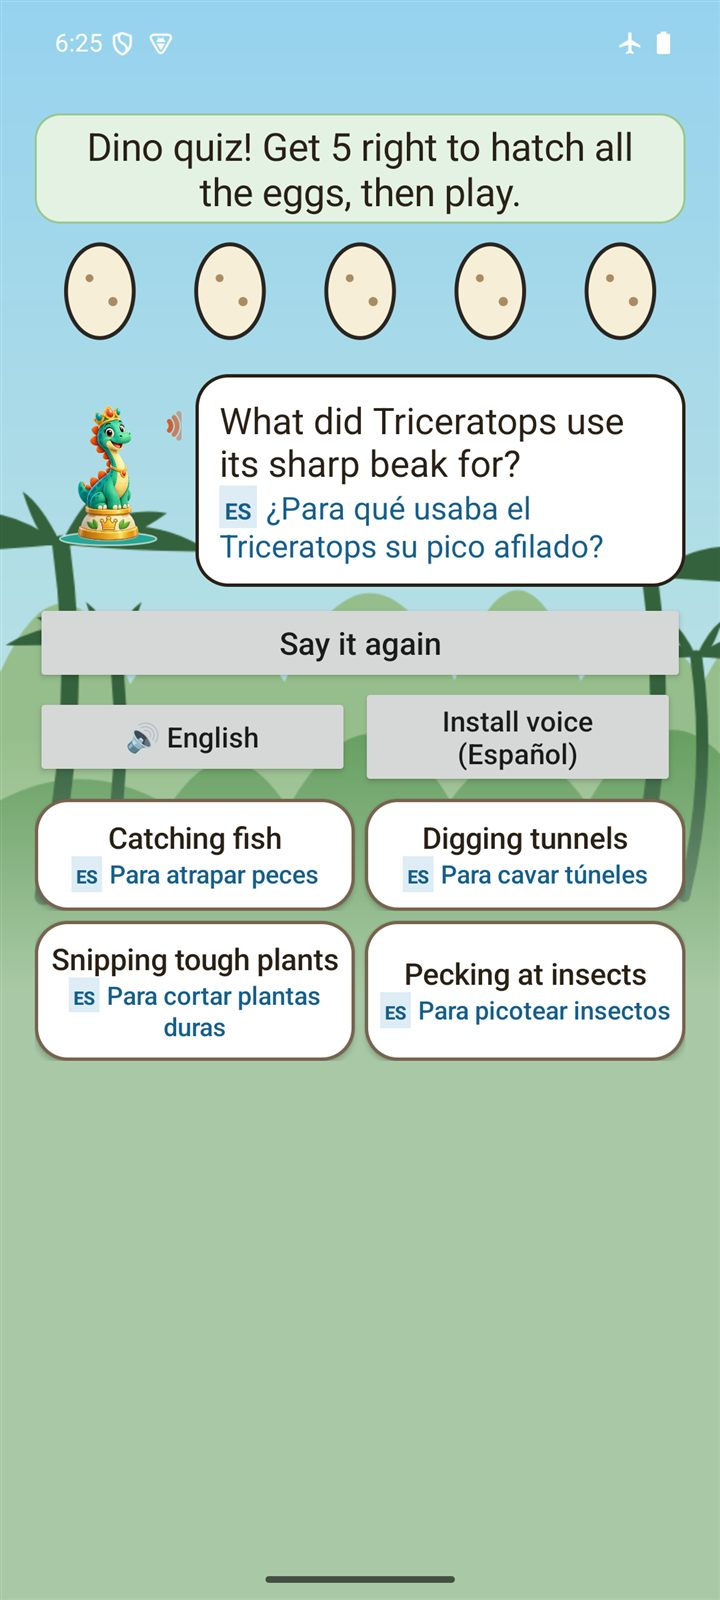
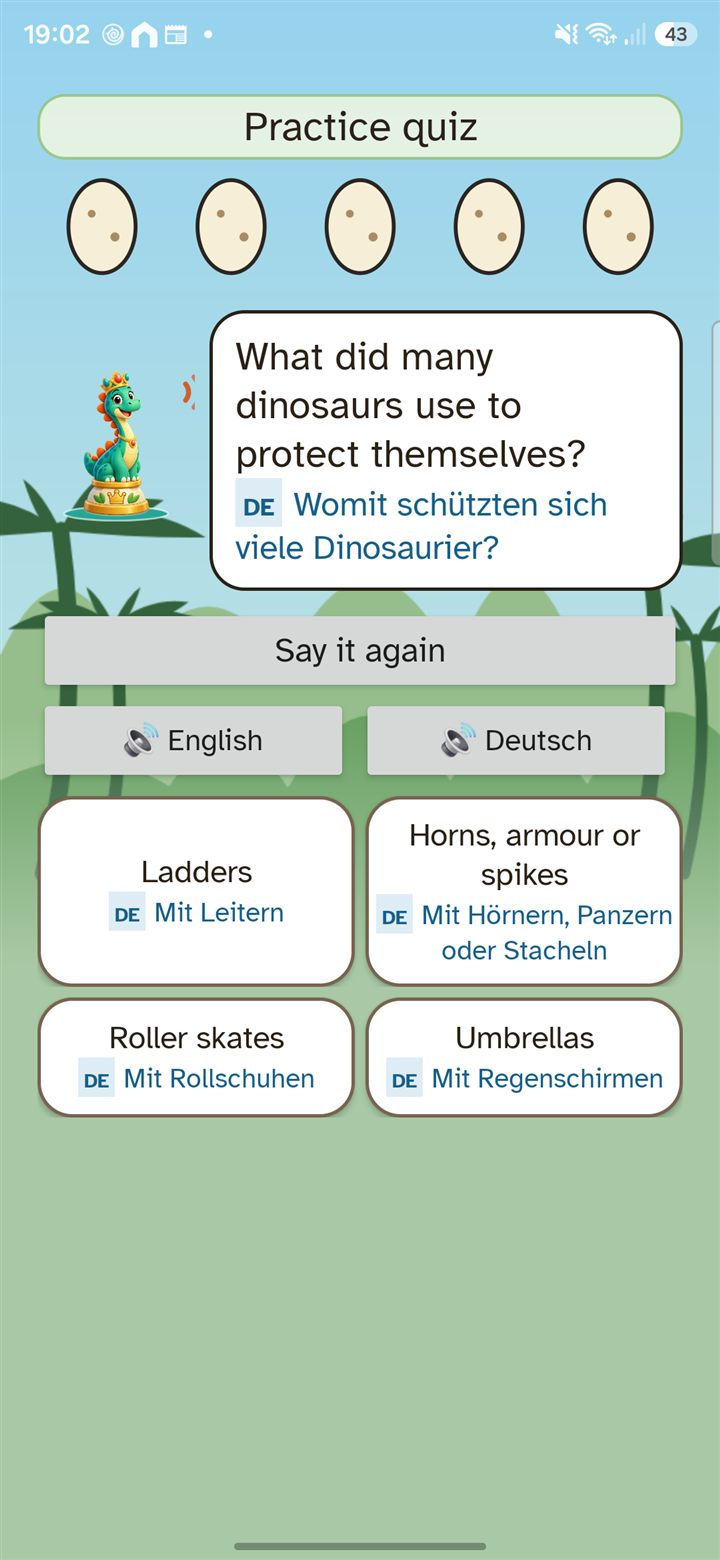
Phone screenshots with English and German: home with two flags, quiz question and answer, two-languages section

diff --git a/index.html b/index.html
@@ -85,13 +85,13 @@
       <h2 id="shots-title">A look inside</h2>
       <p class="intro">Pictures from the app on an Android phone. Swipe or scroll sideways to see them all.</p>
       <div class="shots" tabindex="0" aria-label="Screenshots">
-        <figure><img src="img/1-home.jpg" alt="The home screen, with the dinosaur chess pieces and buttons for Play chess, Dino trail and Other games" width="540" height="1200" loading="lazy"><figcaption>Home</figcaption></figure>
+        <figure><img src="img/1-home.jpg" alt="The home screen with two language flags, English and German, the dinosaur chess pieces and buttons for Play chess, Dino trail and Other games" width="540" height="1170" loading="lazy"><figcaption>Home, with two languages</figcaption></figure>
         <figure><img src="img/2-board.jpg" alt="A chess board with purple and teal dinosaur pieces" width="540" height="1200" loading="lazy"><figcaption>The board</figcaption></figure>
         <figure><img src="img/3-board3d.jpg" alt="The same board in 3D, seen from the player's side with the royal dinosaur pieces" width="540" height="1200" loading="lazy"><figcaption>The 3D board</figcaption></figure>
         <figure><img src="img/4-trail.jpg" alt="The Dino trail, a path of stops starting with the Hatchling pawn" width="540" height="1200" loading="lazy"><figcaption>The Dino trail</figcaption></figure>
         <figure><img src="img/5-games.jpg" alt="The Dino games menu, with games for characters and languages" width="540" height="1200" loading="lazy"><figcaption>Dino games</figcaption></figure>
-        <figure><img src="img/7-quiz.jpg" alt="The dino quiz after a game, in English with French underneath: what were pterosaur wings made of? Each answer in both languages, with a speak button for each" width="540" height="1200" loading="lazy"><figcaption>Learning between games, in two languages</figcaption></figure>
-        <figure><img src="img/8-quiz-answer.jpg" alt="A right answer hatches an egg and a fun fact appears" width="540" height="1200" loading="lazy"><figcaption>A fact with every answer</figcaption></figure>
+        <figure><img src="img/7-quiz.jpg" alt="A dino quiz question in English with German underneath, a speak button for each language and every answer in both" width="540" height="1170" loading="lazy"><figcaption>The dino quiz, in two languages</figcaption></figure>
+        <figure><img src="img/8-quiz-answer.jpg" alt="A right answer hatches an egg, and a fun fact appears in English and German" width="540" height="1170" loading="lazy"><figcaption>A fact with every answer</figcaption></figure>
         <figure><img src="img/6-grownup-check.jpg" alt="The grown-up check: hold a button for three seconds, then answer a sum" width="540" height="1200" loading="lazy"><figcaption>The grown-up check</figcaption></figure>
       </div>
     </div>
@@ -118,7 +118,7 @@
   <section aria-labelledby="two-title">
     <div class="wrap">
       <h2 id="two-title">Learn in two languages at once</h2>
-      <p class="intro">Choose a second language and every quiz question, lesson and museum card shows it right under the main one, with a speak button for each language. Here English is the main language and Spanish the second.</p>
+      <p class="intro">Choose a second language and every quiz question, lesson and museum card shows it right under the main one, with a speak button for each language. Here English is the main language and German the second.</p>
       <div class="two-lang">
         <figure class="phone-shot">
           <img src="img/9-choose-language.jpg" alt="Choosing a second language from a list of twelve, with flags" width="540" height="1200" loading="lazy">
@@ -126,14 +126,14 @@
         </figure>
         <figure class="phone-shot highlight">
           <div class="hl-frame">
-            <img src="img/10-two-languages.jpg" alt="A quiz question in English with the Spanish translation underneath, a speak button for each language, and every answer in both languages" width="720" height="1600" loading="lazy">
-            <span class="hl" style="left:28%;top:30%;width:58%;height:6%"><b>2</b></span>
-            <span class="hl" style="left:4.5%;top:43%;width:89%;height:6%"><b>3</b></span>
-            <span class="hl" style="left:4%;top:49.6%;width:92%;height:16.8%"><b>4</b></span>
+            <img src="img/10-two-languages.jpg" alt="A quiz question in English with the German translation underneath, a speak button for English and for German, and every answer in both languages" width="720" height="1560" loading="lazy">
+            <span class="hl" style="left:31%;top:30%;width:56%;height:6.6%"><b>2</b></span>
+            <span class="hl" style="left:5%;top:44.6%;width:88%;height:5.4%"><b>3</b></span>
+            <span class="hl" style="left:4.5%;top:50.8%;width:91%;height:20.8%"><b>4</b></span>
           </div>
           <figcaption>
-            <span class="num">2</span> The second language, in blue with its own tag (ES).<br>
-            <span class="num">3</span> A speak button for each language, so children hear both.<br>
+            <span class="num">2</span> The second language, in blue with its own tag (DE).<br>
+            <span class="num">3</span> A speak button for each language (🔊 English, 🔊 Deutsch), so children hear both.<br>
             <span class="num">4</span> Every answer in both languages too.
           </figcaption>
         </figure>
